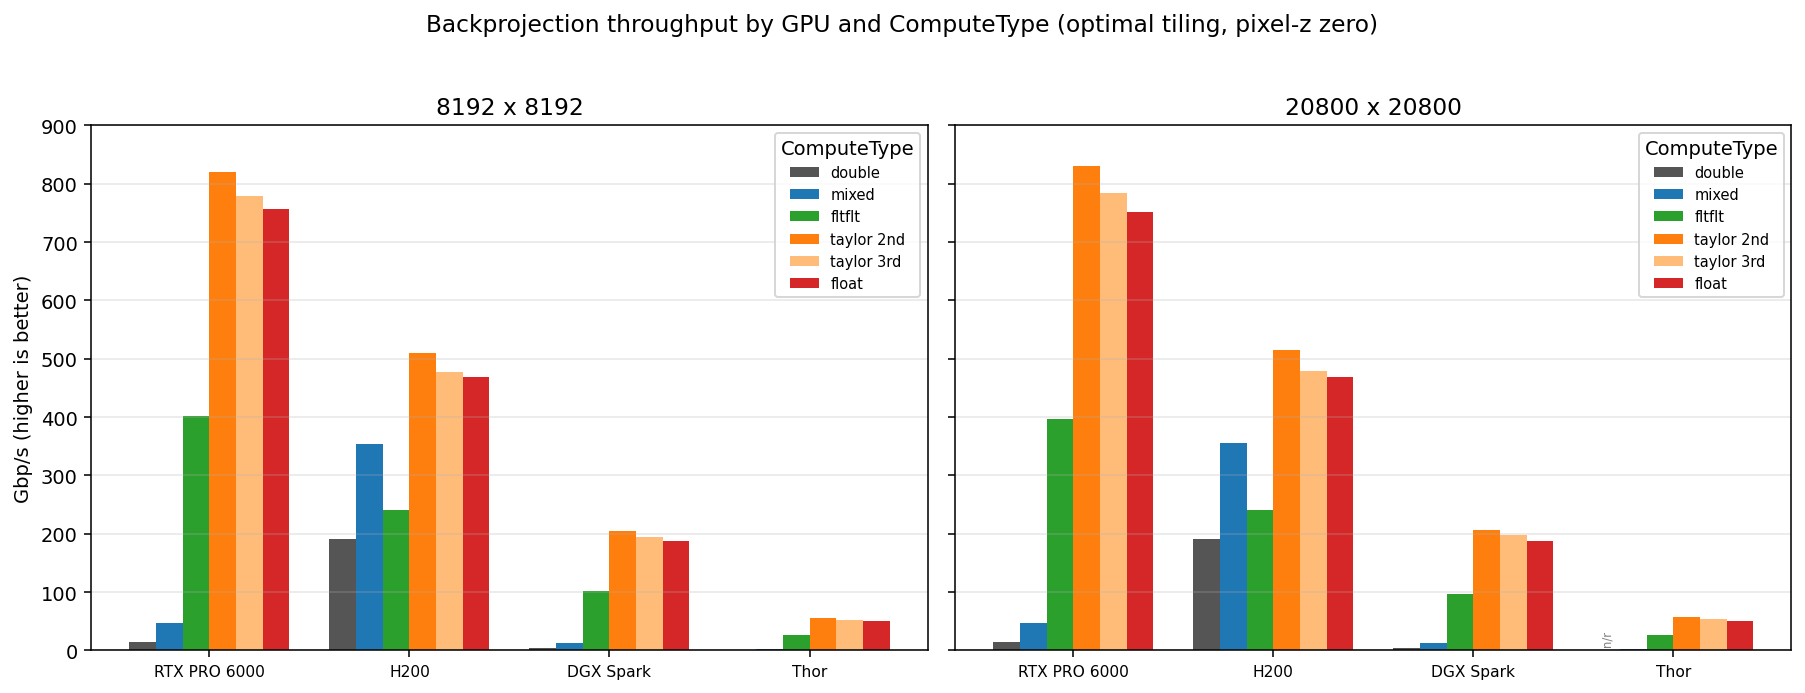
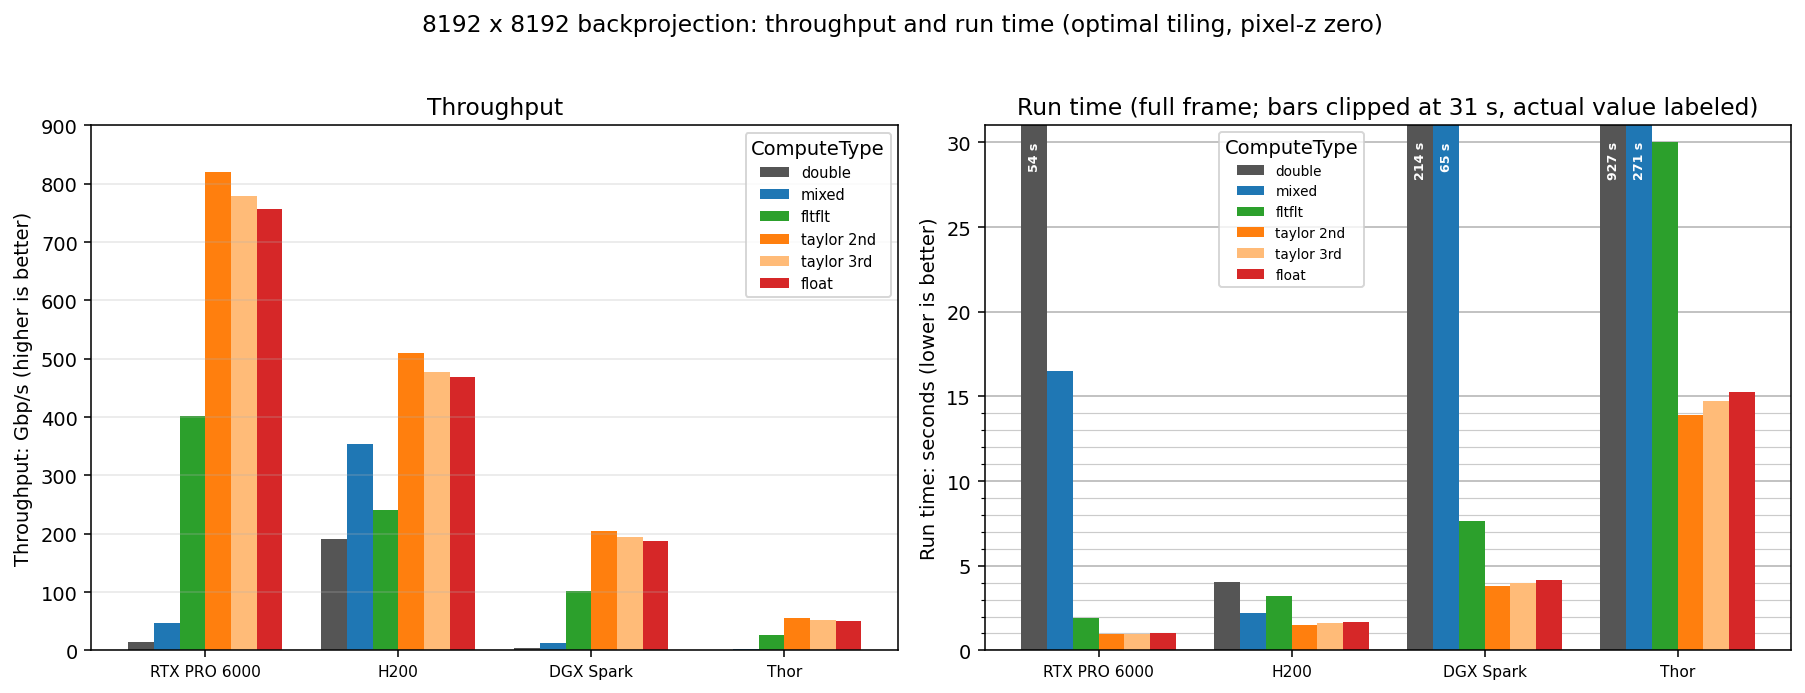
Update sarbp performance plot to include 8k runtimes

diff --git a/examples/sarbp/README.md b/examples/sarbp/README.md
@@ -231,9 +231,9 @@ Each cell is the backprojection time and throughput for the full frame, written 
 | `taylor_fast` (3rd) | 12.78 s @ 784 Gbp/s | 20.91 s @ 479 Gbp/s † | 50.80 s @ 197 Gbp/s † | 186 s @ 53.8 Gbp/s † |
 | `float` | 13.34 s @ 751 Gbp/s | 21.57 s @ 465 Gbp/s | 53.45 s @ 188 Gbp/s † | 197 s @ 51.0 Gbp/s † |
 
-![Backprojection throughput by GPU and ComputeType](throughput_performance.png)
+![8192 x 8192 backprojection throughput and run time by GPU and ComputeType](throughput_performance.png)
 
-*The throughput rate (Gbp/s) is largely independent of scene size because Gbp/s is a normalized metric. Thus, the two panels are very similar. Without image tiling, we would see performance reductions on some platforms for the larger scene (see [Image Tiling](#image-tiling)).*
+*Left: throughput (Gbp/s), a normalized metric that is largely independent of scene size. Right: wall-clock run time for the full 8192 x 8192 frame -- run time is work / throughput, so a larger frame takes proportionally longer. The run-time axis is clipped at 31 s so the fast modes stay legible; bars that exceed the cap are drawn full-height and labeled with their actual run time. On platforms other than the H200, the `fltflt` and `taylor_fast` modes are far faster (and far lower run time) than `double`/`mixed`.*
 
 Observations:
 